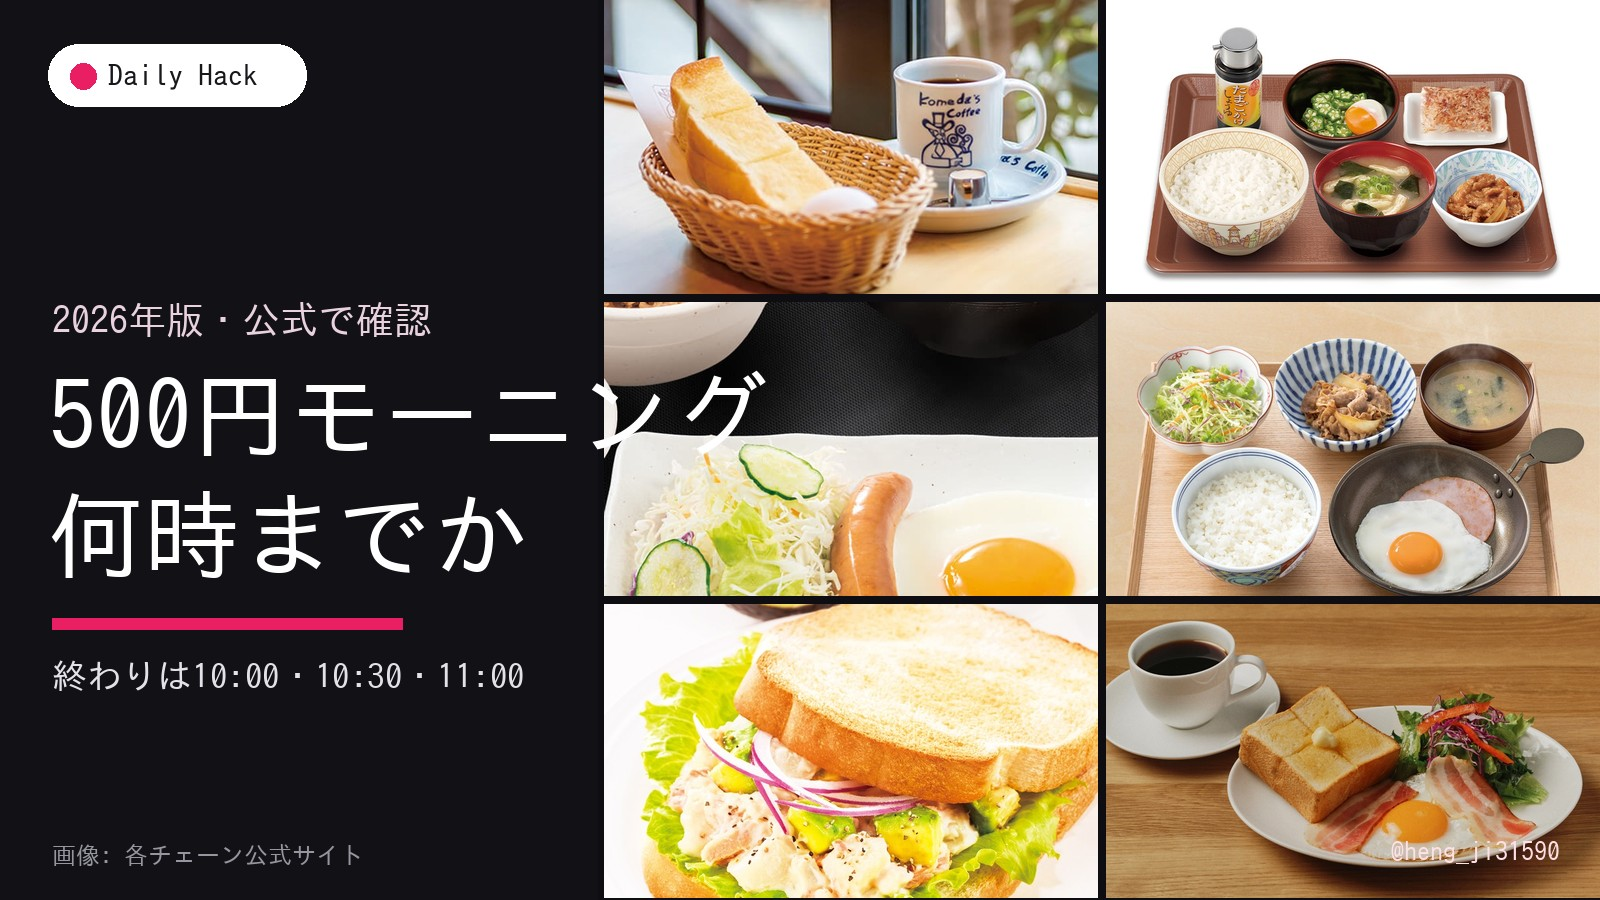
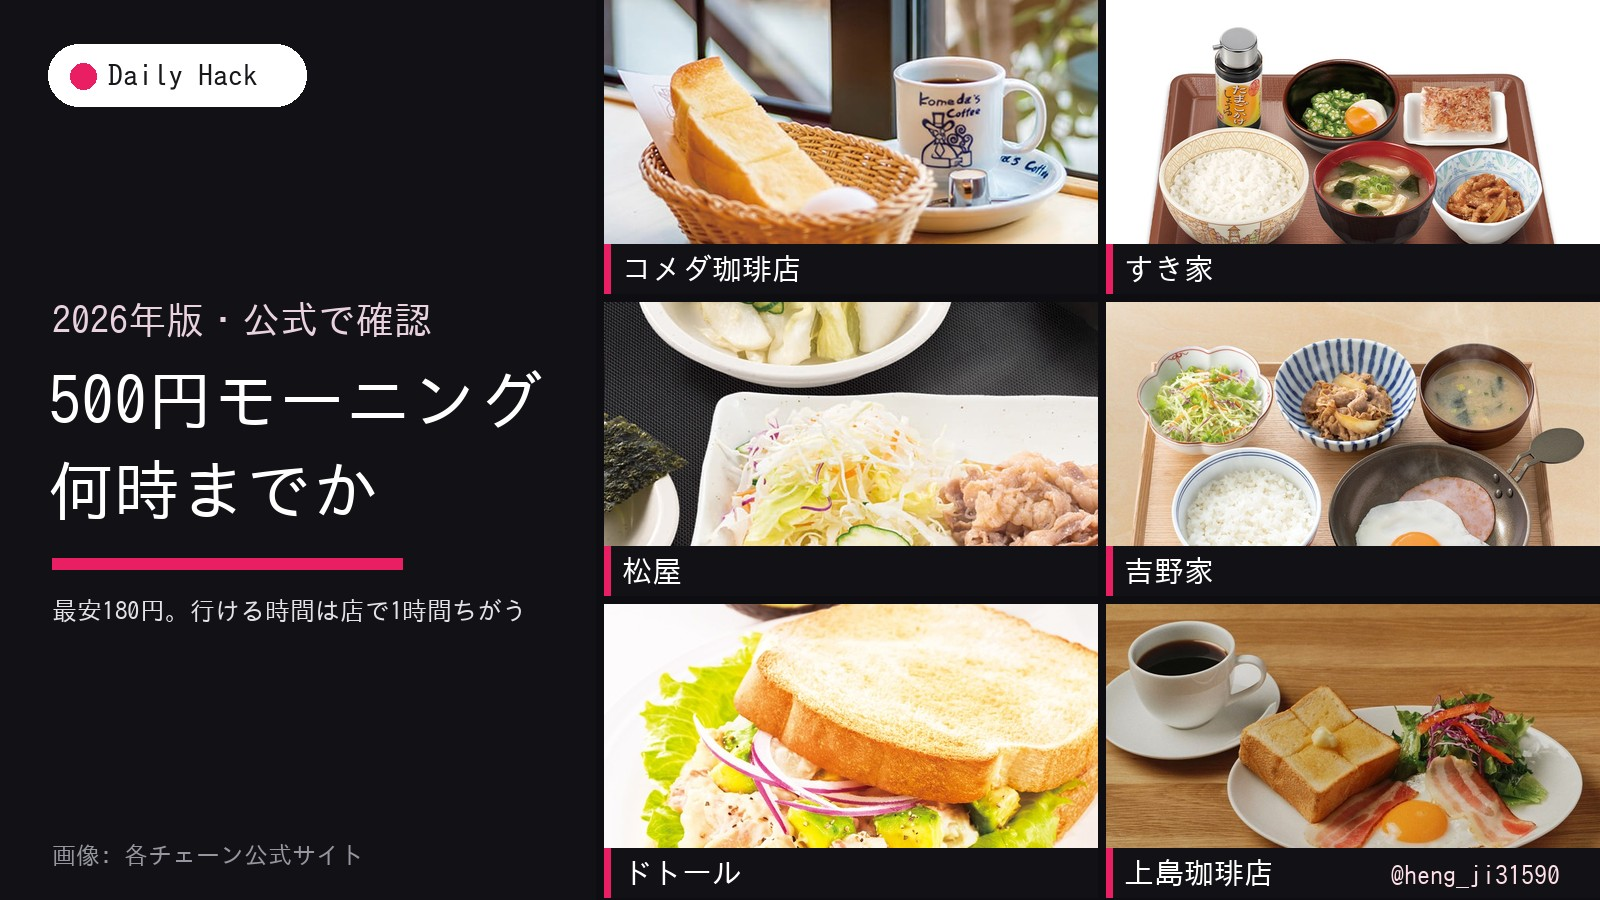
fix: モーニング記事の表紙を作り直す（見出しのはみ出し・チェーン名・サブタイトル）
利用者の指摘は3点。

1. **見出しがタイル側にはみ出していた。** `gen-tile6-hero.py` は見出しを
   96px 固定で描いていたため、「500円モーニング」（8文字＝768px）が
   幅596pxの帯を越えて写真に重なり、読めなくなっていた。
   → **帯の幅に収まるまで自動で縮める。** 2行の見出しは長いほうに合わせて
   同じサイズにそろえる。サブタイトルは折り返しにも対応した
2. **どのチェーンの写真か分からなかった。** → タイルの左下に札を出せるようにした。
   `img6` のうしろにラベルを6つ渡す。商標のロゴマークではなく**店名**を焼く
3. **サブタイトル「終わりは10:00・10:30・11:00」が読む理由になっていない。**
   → 「最安180円。行ける時間は店で1時間ちがう」に変えた。安さと、
   逃す危険が同時に立つ

あわせて2つ直した。

- 松屋のタイルが皿の影で潰れていたので `matsuya-gyuzara.jpg` に差し替え
- 右下のハンドル `@heng_ji31590` が上島珈琲店の札と重なっていたので、
  札を出しているときは札の帯の中に右寄せする

**この直しは生成器そのものに入れた**ので、他の記事の表紙にも効く。
スキルにも「サブタイトルに事実の羅列を置かない」を追記した。

Claude-Session: https://claude.ai/code/session_01RqPaqffepEWsiAkvhJEvmW

Changed region(s): [[0.0312, 0.2489, 1.0, 0.7778], [0.375, 0.9333, 1.0, 1.0], [0.2812, 0.7467, 0.3438, 0.7778]]

diff --git a/scripts/gen-tile6-hero.py b/scripts/gen-tile6-hero.py
@@ -5,7 +5,13 @@
 gen-mosaic-hero.py は 3×2 の上に見出しを重ねるため左 2 枚が潰れる。
 **6 枚とも見せたいときはこちらを使う。**
 
-    python3 scripts/gen-tile6-hero.py OUT.jpg KICKER T1 T2 SUB CREDIT img1 … img6
+    python3 scripts/gen-tile6-hero.py OUT.jpg KICKER T1 T2 SUB CREDIT img1 … img6 [label1 … label6]
+
+**見出しは帯の中に必ず収まる。** 文字数に応じて自動で縮める（2026-09-04）。
+以前は 96px 固定だったため、8 文字の見出しがタイル側にはみ出して読めなくなっていた。
+
+**タイルに札を出せる。** img6 のうしろにラベルを 6 つ渡すと、各タイルの左下に
+帯付きで名前が入る。「どのチェーンの写真か」が表紙だけで分かるようにするためのもの。
 """
 import sys
 from PIL import Image, ImageDraw, ImageFont
@@ -13,6 +19,7 @@ from PIL import Image, ImageDraw, ImageFont
 OUT = sys.argv[1]
 KICKER, T1, T2, SUB, CREDIT = sys.argv[2:7]
 IMGS = sys.argv[7:13]
+LABELS = sys.argv[13:19]
 
 W, H = 1600, 900
 PANEL = 596        # 左の見出し帯
@@ -20,6 +27,9 @@ GAP = 8
 GX = PANEL + GAP   # タイル領域の左端
 TW = (W - GX - GAP) // 2
 TH = (H - GAP * 2) // 3
+PAD_L = 48         # 帯の左余白
+PAD_R = 40         # 帯の右余白（ここを越えたらはみ出し）
+MAXW = PANEL - PAD_L - PAD_R
 
 # Linux（クラウドセッション）は IPA ゴシック、macOS はヒラギノ
 CAND = ["/usr/share/fonts/opentype/ipafont-gothic/ipag.ttf",
@@ -31,14 +41,17 @@ if F is None:
 def f(sz): return ImageFont.truetype(F, sz)
 
 canvas = Image.new("RGB", (W, H), (14, 14, 18))
+LABEL_BH = 50   # 札の帯の高さ（札を出したときに実測値で上書きされる）
+
 
 def fit(path, w, h):
     im = Image.open(path).convert("RGB")
     r = max(w / im.width, h / im.height)
     im = im.resize((max(w, int(im.width * r)), max(h, int(im.height * r))), Image.LANCZOS)
-    l = (im.width - w) // 2
-    t = int((im.height - h) * 0.42)
-    return im.crop((l, t, l + w, t + h))
+    left = (im.width - w) // 2
+    top = int((im.height - h) * 0.42)
+    return im.crop((left, top, left + w, top + h))
+
 
 for i, p in enumerate(IMGS[:6]):
     col, row = i % 2, i // 2
@@ -46,38 +59,97 @@ for i, p in enumerate(IMGS[:6]):
     y = row * (TH + GAP)
     canvas.paste(fit(p, TW, TH), (x, y))
 
-# 左帯（不透明）
 d = ImageDraw.Draw(canvas)
+
+# --- タイルの札（どのチェーンの写真かを表紙で示す） ---
+# **表紙は一覧で縮小されて出る。** 小さくすると読めないので、帯を敷いて文字を大きく保つ。
+for i, name in enumerate(LABELS[:6]):
+    if not name:
+        continue
+    col, row = i % 2, i // 2
+    x = GX + col * (TW + GAP)
+    y = row * (TH + GAP)
+    size = 30
+    fnt = f(size)
+    while size > 18 and d.textlength(name, font=fnt) > TW - 44:
+        size -= 2
+        fnt = f(size)
+    tw = d.textlength(name, font=fnt)
+    bh = size + 20
+    LABEL_BH = bh
+    d.rectangle([x, y + TH - bh, x + TW - 1, y + TH - 1], fill=(17, 17, 22))
+    d.rectangle([x, y + TH - bh, x + 6, y + TH - 1], fill=(233, 30, 99))
+    d.text((x + 18, y + TH - bh + 9), name, font=fnt, fill=(255, 255, 255))
+
+# --- 左帯（不透明） ---
 d.rectangle([0, 0, PANEL - 1, H], fill=(17, 17, 22))
-# 帯からタイルへのなじみ
-grad = Image.new("L", (1, 1))
-for i in range(56):
-    a = int(255 * (1 - i / 56))
-    d.line([(PANEL + i, 0), (PANEL + i, H)], fill=(17, 17, 22))
-    if a < 255:
-        break
 
 # ロゴ
 d.rounded_rectangle([48, 44, 306, 106], radius=31, fill=(255, 255, 255))
 d.ellipse([70, 63, 96, 89], fill=(233, 30, 99))
 d.text((108, 60), "Daily Hack", font=f(30), fill=(24, 24, 28))
 
+
+def shrink(text, start, floor=22):
+    """帯の幅に収まる最大の文字サイズを返す。**はみ出させない。**"""
+    size = start
+    while size > floor and d.textlength(text, font=f(size)) > MAXW:
+        size -= 2
+    return size
+
+
+def wrap(text, size, lines=2):
+    """帯の幅で折り返す。lines 行に収まらなければ諦めて 1 行で返す。"""
+    fnt = f(size)
+    if d.textlength(text, font=fnt) <= MAXW:
+        return [text]
+    out, cur = [], ""
+    for ch in text:
+        if d.textlength(cur + ch, font=fnt) > MAXW and cur:
+            out.append(cur)
+            cur = ch
+            if len(out) == lines:
+                return [text]
+        else:
+            cur += ch
+    out.append(cur)
+    return out
+
+
 y = 300
-d.text((52, y), KICKER, font=f(38), fill=(233, 210, 220))
-y += 66
-d.text((48, y), T1, font=f(96), fill=(255, 255, 255))
-y += 120
-d.text((48, y), T2, font=f(96), fill=(255, 255, 255))
-y += 132
+ks = shrink(KICKER, 38, floor=24)
+d.text((52, y), KICKER, font=f(ks), fill=(233, 210, 220))
+y += ks + 28
+
+# 見出しは 2 行そろえたいので、長いほうに合わせて同じサイズにする
+ts = min(shrink(T1, 96), shrink(T2, 96))
+for line in (T1, T2):
+    d.text((PAD_L, y), line, font=f(ts), fill=(255, 255, 255))
+    y += ts + 24
+
+y += 12
 d.rectangle([52, y, 402, y + 11], fill=(233, 30, 99))
 y += 40
-d.text((52, y), SUB, font=f(35), fill=(226, 226, 232))
+
+ss = shrink(SUB, 35, floor=24)
+sub_lines = wrap(SUB, ss)
+if len(sub_lines) > 1:                      # 折り返すなら少し小さくして詰める
+    ss = max(24, ss - 2)
+    sub_lines = wrap(SUB, ss)
+for line in sub_lines:
+    d.text((52, y), line, font=f(ss), fill=(226, 226, 232))
+    y += ss + 10
 
 d.text((52, H - 58), CREDIT, font=f(24), fill=(150, 150, 160))
 
 # 発信元のハンドル（他の記事の表紙と同じ位置・同じ体裁）
+# **札を出しているときは、右下の札と重なる。** その場合は札の帯の右端に寄せる。
 hb = f(26); ht = "@heng_ji31590"
-d.text((W - 40 - d.textlength(ht, font=hb), H - 62), ht, font=hb, fill=(255, 224, 230))
+hx = W - 40 - d.textlength(ht, font=hb)
+if len(LABELS) >= 6 and LABELS[5]:
+    d.text((hx, H - LABEL_BH + 12), ht, font=hb, fill=(255, 224, 230))
+else:
+    d.text((hx, H - 62), ht, font=hb, fill=(255, 224, 230))
 
 canvas.save(OUT, quality=90, optimize=True)
 print(OUT, canvas.size)

diff --git a/.claude/skills/blog-article/SKILL.md b/.claude/skills/blog-article/SKILL.md
@@ -114,6 +114,29 @@ python3 scripts/gen-tile6-hero.py OUT.jpg KICKER T1 T2 SUB CREDIT img1 … img6
 見出しとタイルの領域を**重ねずに分ける**。作ったら必ず `Read` で開いて、
 **6 枚を数える。**
 
+**タイルには札を出す。** `img6` のうしろにラベルを 6 つ渡すと、各タイルの左下に
+名前が入る。**写真だけでは「どこの店か」が伝わらない。**
+
+```bash
+python3 scripts/gen-tile6-hero.py OUT.jpg KICKER T1 T2 SUB CREDIT img1 … img6 \
+    "コメダ珈琲店" "すき家" "松屋" "吉野家" "ドトール" "上島珈琲店"
+```
+
+**見出しは帯の幅に自動で収まる**（2026-09-04 に対応）。それ以前は 96px 固定で、
+**8 文字の見出しがタイル側にはみ出して読めなくなっていた。** 生成後に必ず目で見て、
+見出しが帯の中で完結しているかを確かめる。
+
+#### 表紙のサブタイトルに「事実の羅列」を置かない
+
+2026-09-04 に、モーニング記事の表紙が **「終わりは10:00・10:30・11:00」** で
+差し戻された。指摘は「**なにも記事の魅力を答えてない**」。
+
+サブタイトルは本文の要約ではなく、**読む理由**を書く場所。数字を並べるだけなら
+見出しと同じことをしているだけで、1 行ぶんの面積が無駄になる。
+
+- 悪い: 「終わりは10:00・10:30・11:00」（見ただけでは得も損も分からない）
+- よい: 「最安180円。行ける時間は店で1時間ちがう」（安さと、逃す危険が同時に立つ）
+
 タイルは**別々の対象**にする。同じ施設の写真を 2 枚入れると「6 施設ぶん」に見えない。
 
 #### 表紙の隅の文字は、まず生成器のコードを読む
